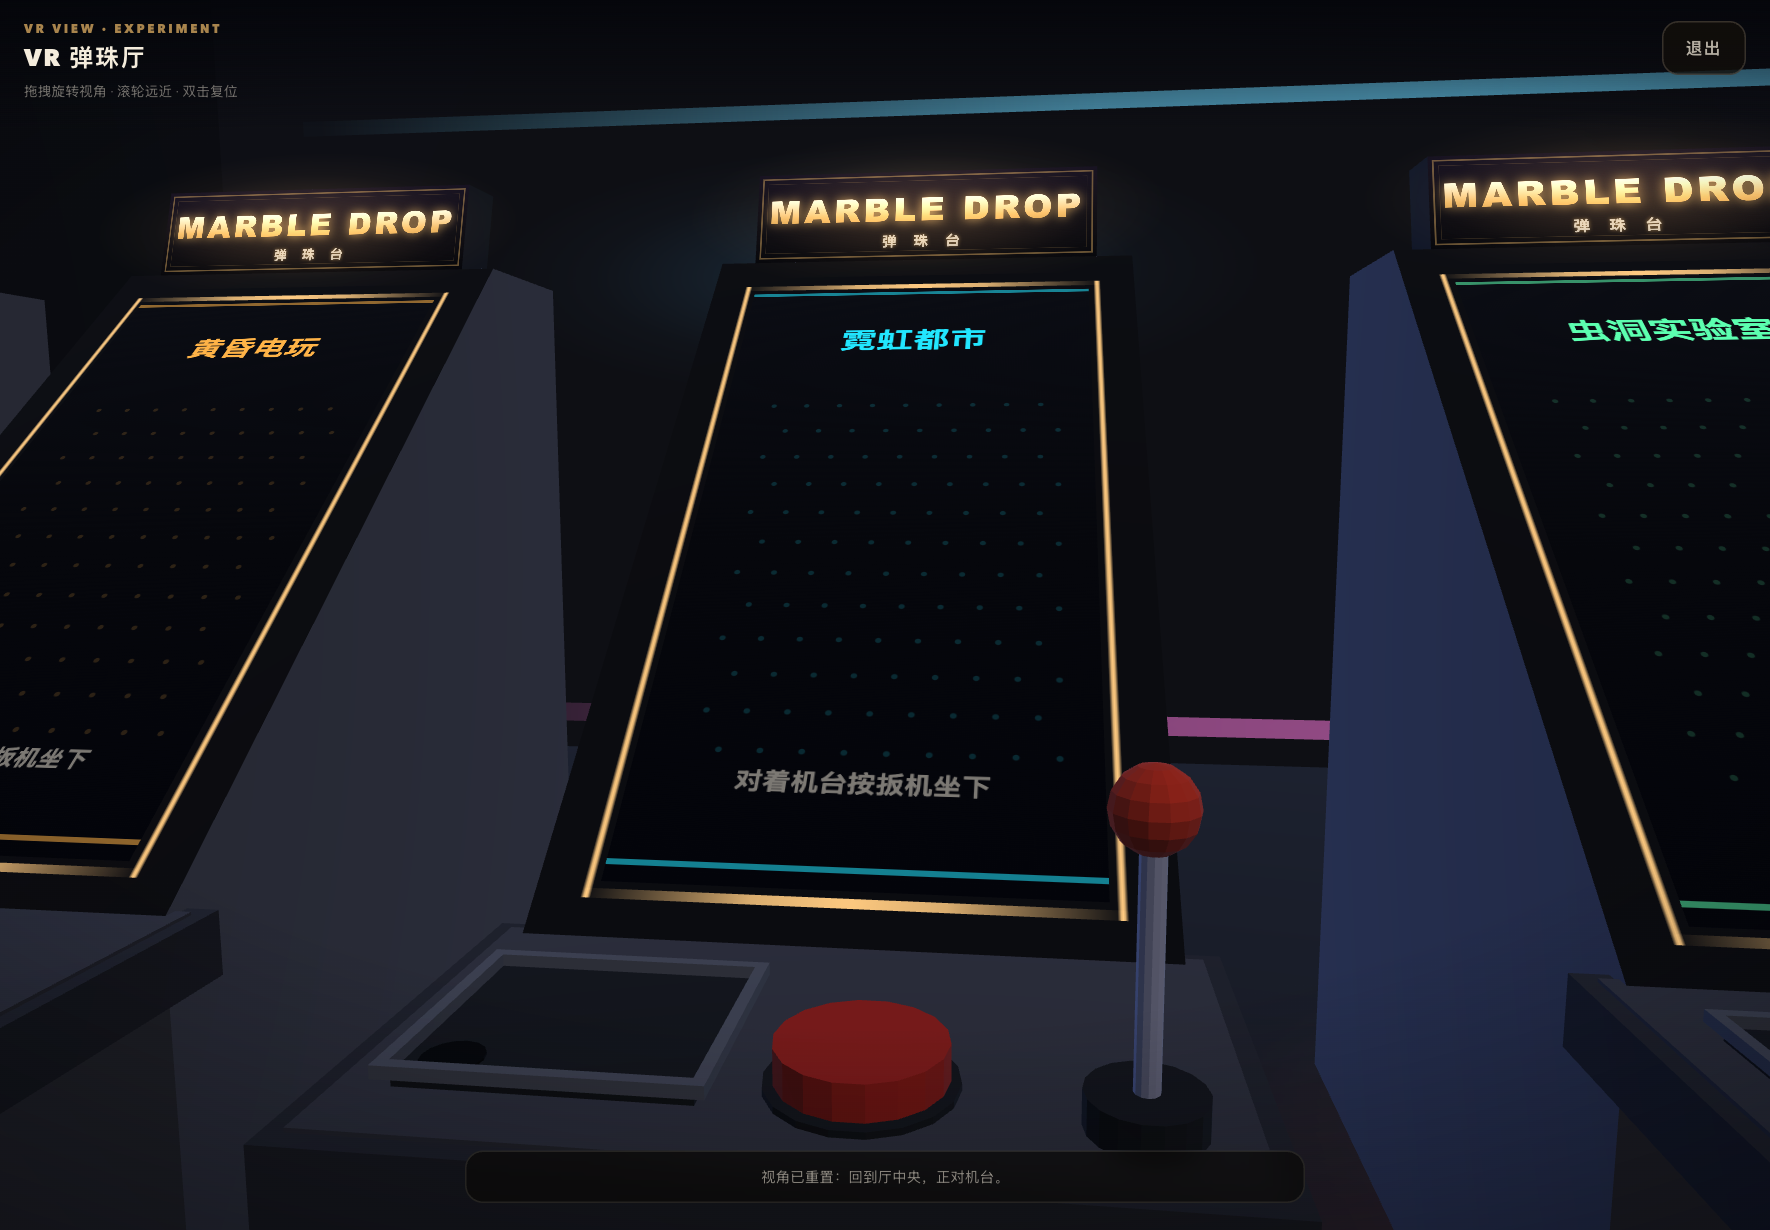
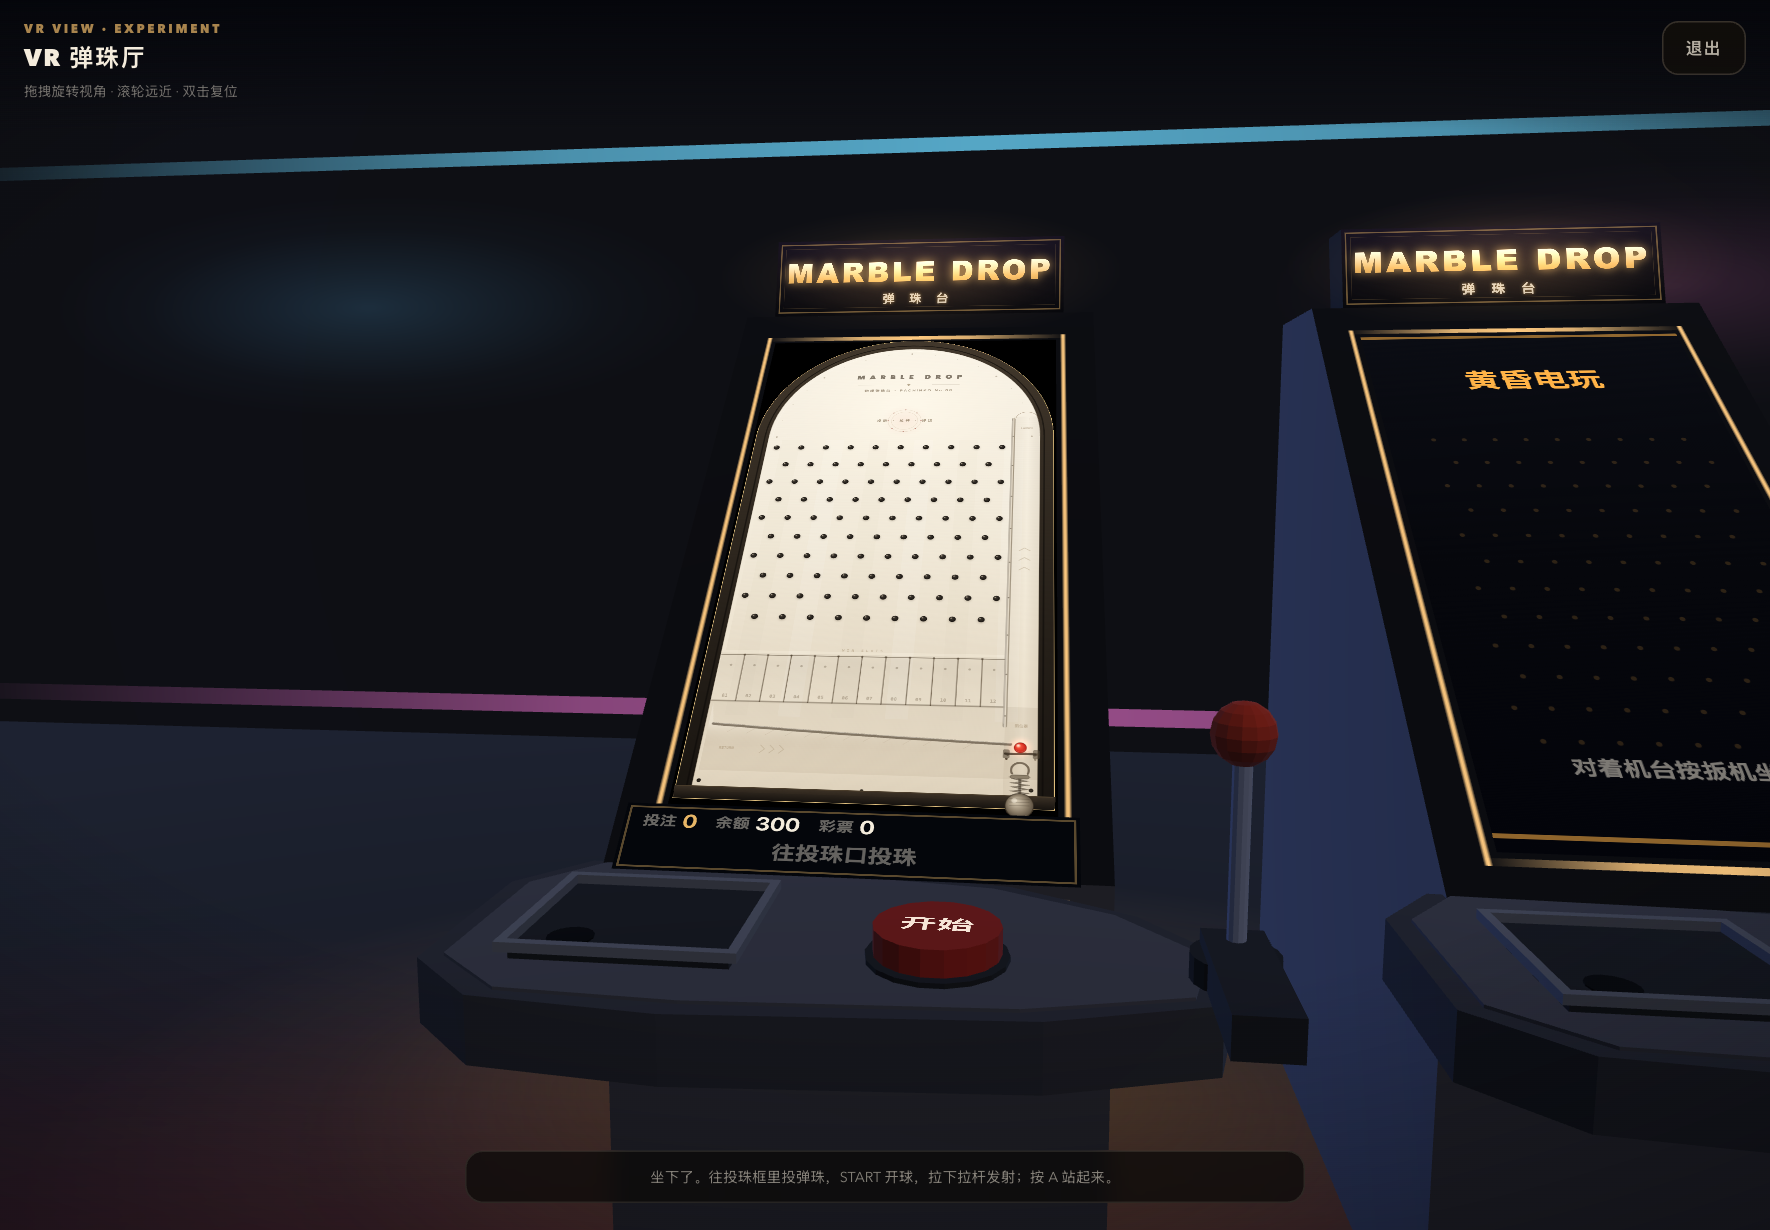
feat(vr): 操作台按设计稿收窄，发射拉杆改为向外拉

diff --git a/src/vr/scene.js b/src/vr/scene.js
@@ -56,13 +56,29 @@ const TAU = Math.PI * 2;
    face. It sits low enough to stay clear of the slot bank but still inside
    arm's reach of a player standing at the machine. */
 const DECK = {
-  left: -0.4,
-  right: 0.4,
+  left: -0.46,
+  right: 0.5,
   bottom: 0.62,
   top: 0.7,
-  back: 0.56,
-  front: 1.02,
+  back: 0.58,
+  front: 1.05,
 };
+
+/* Outline of the deck, taken from the sketch: rounded on the left where the
+   marble frame sits, tapering to the right where the launch lever stands. */
+const DECK_PLAN = [
+  [-0.38, 0.58],
+  [-0.04, 0.58],
+  [0.22, 0.62],
+  [0.38, 0.71],
+  [0.48, 0.84],
+  [0.45, 0.96],
+  [0.26, 1.02],
+  [-0.14, 1.05],
+  [-0.36, 1.03],
+  [-0.46, 0.94],
+  [-0.46, 0.68],
+];
 
 /* Exchange kiosk: a room-level prop with its own local space (origin at the
    floor under its centre). It never shares coordinates with the machines. */
@@ -78,8 +94,8 @@ const SHOP = {
 
 /* Marble feeder: a shallow tray with a hole in the near-left corner. */
 const FEEDER = {
-  x: -0.2,
-  z: 0.82,
+  x: -0.22,
+  z: 0.83,
   width: 0.26,
   depth: 0.22,
   y: 0.716,
@@ -101,17 +117,19 @@ const DECK_COLORS = {
 /* The deck only has the three controls from the reference sketch:
    marble frame, start button, launch lever. */
 const DECK_BUTTONS = [
-  { id: "start", x: 0.06, z: 0.88, radius: 0.075, height: 0.032, color: DECK_COLORS.start, hit: 0.1 },
+  { id: "start", x: 0.14, z: 0.88, radius: 0.075, height: 0.032, color: DECK_COLORS.start, hit: 0.1 },
 ];
 
 const LEVER = {
-  x: 0.29,
-  z: 0.92,
+  x: 0.47,
+  z: 0.9,
   baseY: 0.7,
-  restY: 0.96,
+  restY: 0.98,
   travel: 0.16,
   knobRadius: 0.036,
   hit: 0.085,
+  /* The plunger is pulled toward the player (+Z), not pressed down. */
+  axis: [0, 0, 1],
 };
 
 /* ── Geometry helpers ───────────────────────────────────── */
@@ -125,6 +143,41 @@ function boxPolygons(x0, x1, y0, y1, z0, z1, color) {
     { points: [[x0, y0, z0], [x1, y0, z0], [x1, y0, z1], [x0, y0, z1]], outward: [0, -1, 0], color },
     { points: [[x0, y0, z0], [x0, y1, z0], [x1, y1, z0], [x1, y0, z0]], outward: [0, 0, -1], color },
   ];
+}
+
+function prismPolygons(plan, y0, y1, color) {
+  const polygons = [
+    { points: plan.map(([x, z]) => [x, y1, z]), outward: [0, 1, 0], color },
+    { points: plan.map(([x, z]) => [x, y0, z]), outward: [0, -1, 0], color },
+  ];
+  for (let index = 0; index < plan.length; index += 1) {
+    const a = plan[index];
+    const b = plan[(index + 1) % plan.length];
+    const mx = (a[0] + b[0]) / 2;
+    const mz = (a[1] + b[1]) / 2;
+    polygons.push({
+      points: [
+        [a[0], y0, a[1]],
+        [a[0], y1, a[1]],
+        [b[0], y1, b[1]],
+        [b[0], y0, b[1]],
+      ],
+      outward: [mx, 0, mz],
+      color,
+    });
+  }
+  return polygons;
+}
+
+function insetPlan(plan, amount) {
+  const cx = plan.reduce((sum, [x]) => sum + x, 0) / plan.length;
+  const cz = plan.reduce((sum, [, z]) => sum + z, 0) / plan.length;
+  return plan.map(([x, z]) => {
+    const dx = x - cx;
+    const dz = z - cz;
+    const length = Math.hypot(dx, dz) || 1;
+    return [x - (dx / length) * amount, z - (dz / length) * amount];
+  });
 }
 
 function cylinderPolygons(cx, y0, cz, radius, height, segments, color) {
@@ -977,16 +1030,8 @@ function buildGeometry(gl) {
 
   /* ── Control deck ─────────────────────────────────────── */
   const deckPolys = [
-    ...boxPolygons(DECK.left, DECK.right, DECK.bottom, DECK.top, DECK.back, DECK.front, DECK_COLORS.body),
-    ...boxPolygons(
-      DECK.left + 0.02,
-      DECK.right - 0.02,
-      DECK.top,
-      DECK.top + 0.004,
-      DECK.back + 0.02,
-      DECK.front - 0.02,
-      DECK_COLORS.inlay,
-    ),
+    ...prismPolygons(DECK_PLAN, DECK.bottom, DECK.top, DECK_COLORS.body),
+    ...prismPolygons(insetPlan(DECK_PLAN, 0.03), DECK.top, DECK.top + 0.004, DECK_COLORS.inlay),
   ];
   for (const button of DECK_BUTTONS) {
     deckPolys.push(
@@ -994,6 +1039,18 @@ function buildGeometry(gl) {
     );
   }
   deckPolys.push(...cylinderPolygons(LEVER.x, DECK.top + 0.004, LEVER.z, 0.05, 0.03, 18, DECK_COLORS.ring));
+  /* Slide housing: keeps the plunger looking connected while it is pulled out. */
+  deckPolys.push(
+    ...boxPolygons(
+      LEVER.x - 0.035,
+      LEVER.x + 0.035,
+      DECK.top + 0.004,
+      DECK.top + 0.05,
+      LEVER.z - 0.03,
+      LEVER.z + LEVER.travel + 0.03,
+      [0.05, 0.055, 0.07],
+    ),
+  );
 
   /* Marble feeder tray: shallow box, lip, and a hole where the marbles fall. */
   const trayLeft = FEEDER.x - FEEDER.width / 2;
@@ -1030,10 +1087,10 @@ function buildGeometry(gl) {
   const startLabel = createQuad(
     gl,
     [
-      [-0.005, 0.7455, 0.945],
-      [0.125, 0.7455, 0.945],
-      [0.125, 0.7455, 0.815],
-      [-0.005, 0.7455, 0.815],
+      [0.075, 0.7455, 0.945],
+      [0.205, 0.7455, 0.945],
+      [0.205, 0.7455, 0.815],
+      [0.075, 0.7455, 0.815],
     ],
     [
       [0, 0],
@@ -1401,6 +1458,11 @@ export function createScene(canvas, boardCanvas) {
   }
 
   function tick(dt) {
+    if (!leverHeld && leverPull > 0.0005) {
+      leverPull += (0 - leverPull) * Math.min(1, dt * 16);
+      if (leverPull < 0.001) leverPull = 0;
+      leverControl.center[2] = LEVER.z + leverPull;
+    }
     for (let i = marbles.length - 1; i >= 0; i -= 1) {
       const marble = marbles[i];
       marble.t += dt / 0.42;
@@ -1428,9 +1490,16 @@ export function createScene(canvas, boardCanvas) {
     marbleListener = listener;
   }
 
+  let leverHeld = false;
+
   function setLeverPull(pull) {
+    leverHeld = true;
     leverPull = Math.max(0, Math.min(LEVER.travel, pull));
-    leverControl.center[1] = LEVER.restY - leverPull;
+    leverControl.center[2] = LEVER.z + leverPull;
+  }
+
+  function releaseLever() {
+    leverHeld = false;
   }
 
   function setControlState(next) {
@@ -1711,8 +1780,8 @@ export function createScene(canvas, boardCanvas) {
         drawLit(geometry.buttonCaps[button.id], live ? tintFor(button.id) : dim);
       }
       const pull = live ? leverPull : 0;
-      drawLit(geometry.leverRod, live ? tintFor("lever") : dim, [0, -pull, 0]);
-      drawLit(geometry.leverKnob, live ? tintFor("lever") : dim, [0, -pull, 0]);
+      drawLit(geometry.leverRod, live ? tintFor("lever") : dim, [0, 0, pull]);
+      drawLit(geometry.leverKnob, live ? tintFor("lever") : dim, [0, 0, pull]);
       const stoolHover = hoverId === "stool" && hoverIndex === (cabinet.index ?? index);
       drawLit(geometry.stool, stoolHover ? [1.9, 1.75, 1.5] : null);
 
@@ -1774,6 +1843,7 @@ export function createScene(canvas, boardCanvas) {
     controlCenter,
     setControlState,
     setLeverPull,
+    releaseLever,
     updateHud,
     setRays,
     setCabinetLabels,

diff --git a/src/vr/viewer.js b/src/vr/viewer.js
@@ -200,6 +200,16 @@ function toLocal(ray) {
 
 /** Nearest hit across every machine in the room. */
 function pickTarget(ray) {
+  // Controls on the active machine always win: the neighbours' "sit" volumes
+  // are large spheres that can graze the lever of the machine you're at.
+  const activeLocal = toLocalOn(cabinetModels[activeIndex], ray);
+  if (activeLocal) {
+    const activeHit = scene.hitTestRay(activeLocal.origin, activeLocal.direction, true);
+    if (activeHit && activeHit.id !== "cabinet") {
+      return { index: activeIndex, id: activeHit.id, t: activeHit.t };
+    }
+  }
+
   let best = null;
   for (let index = 0; index < cabinets.length; index += 1) {
     const local = toLocalOn(cabinetModels[index], ray);
@@ -222,15 +232,18 @@ function pickControl(ray) {
   return scene.hitTest(local.origin, local.direction);
 }
 
-/** Height of the ray where it crosses the lever's vertical plane. */
-function leverRayHeight(ray) {
+/**
+ * Z where the ray crosses the plane of the plunger knob. Pulling the hand back
+ * (or dragging the mouse down in the preview) increases this value.
+ */
+function leverPullReference(ray) {
   const local = toLocal(ray);
   if (!local) return null;
-  const dz = local.direction[2];
-  if (Math.abs(dz) < 0.0001) return null;
-  const t = (scene.lever.z - local.origin[2]) / dz;
-  if (t <= 0) return null;
-  return local.origin[1] + local.direction[1] * t;
+  const dy = local.direction[1];
+  if (Math.abs(dy) < 0.0001) return null;
+  const t = (scene.lever.restY - local.origin[1]) / dy;
+  if (!Number.isFinite(t) || t <= 0) return null;
+  return local.origin[2] + local.direction[2] * t;
 }
 
 function trigger(id) {
@@ -264,12 +277,12 @@ function press(source, ray) {
 
   if (id === "lever") {
     if (!engineApi.leverGrab()) return false;
-    const height = leverRayHeight(ray);
-    if (height === null) {
+    const reference = leverPullReference(ray);
+    if (reference === null) {
       engineApi.leverCancel();
       return false;
     }
-    leverGrab = { y: height };
+    leverGrab = { z: reference };
     scene.setLeverPull(0);
   } else if (id === "end") {
     const now = performance.now();
@@ -296,7 +309,7 @@ function release(source) {
   if (!pressedId || source !== pressedSource) return;
   if (pressedId === "lever") {
     engineApi.leverRelease();
-    scene.setLeverPull(0);
+    scene.releaseLever();
     leverGrab = null;
   }
   pressedId = null;
@@ -307,9 +320,9 @@ function release(source) {
 
 function dragLever(ray) {
   if (pressedId !== "lever" || !leverGrab) return;
-  const height = leverRayHeight(ray);
-  if (height === null) return;
-  const pull = clamp(leverGrab.y - height, 0, scene.lever.travel);
+  const reference = leverPullReference(ray);
+  if (reference === null) return;
+  const pull = clamp(reference - leverGrab.z, 0, scene.lever.travel);
   scene.setLeverPull(pull);
   engineApi.leverPull(pull / scene.lever.travel);
 }
@@ -508,7 +521,7 @@ function cancelPress() {
   pressedSource = null;
   leverGrab = null;
   endArmedUntil = 0;
-  scene?.setLeverPull(0);
+  scene?.releaseLever();
   scene?.setControlState({ pressed: null });
   scene?.setRays([]);
 }
@@ -1092,6 +1105,19 @@ export function initVR() {
     stand: standUp,
     sitAt,
     resetView,
+    debugCenter(id) {
+      return scene?.controlCenter(id) || scene?.kioskCenter(id) || null;
+    },
+    debugLocal(x, y) {
+      const ray = mouseRay(x, y);
+      const local = toLocal(ray);
+      if (!local) return null;
+      return { origin: local.origin, dir: local.direction, hit: scene.hitTestRay(local.origin, local.direction, true) };
+    },
+    debugPick(x, y) {
+      const ray = mouseRay(x, y);
+      return ray ? pickTarget(ray) : null;
+    },
     get activeTable() {
       return cabinets[activeIndex].id;
     },
